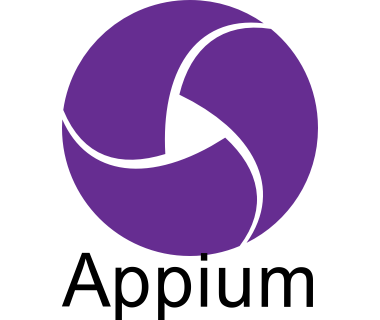
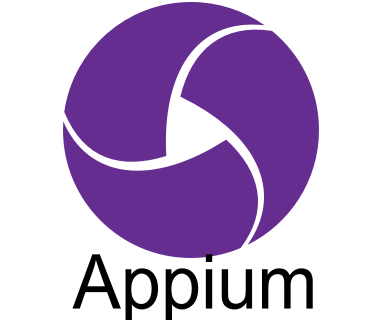
images

diff --git a/README.md b/README.md
@@ -16,7 +16,9 @@
 "Quality is not an act, it is a habit." - Aristotle
 </p>
 
-**Languages:**
+</br>
+
+## Languages:
 
 <a href="https://developer.mozilla.org/es/docs/Web/JavaScript">
 <img src="images/javascript.png" height="70" style="vertical-align:down; margin:4px" alt="javascript">
@@ -26,44 +28,50 @@
 <img src="images/java.png" height="75" style="vertical-align:down; margin:4px" alt="java">
 </a>
 
-**Automatization tools:**
+</br>
 
-<a href="https://cucumber.io/">
-<img src="images/cucumber.svg" height="70" style="vertical-align:down; margin:4px" alt="cucumber" />
-</a>
+## Automatization tools:
 
 <a href="https://www.selenium.dev/">
-<img src="images/selenium.svg" height="70" style="vertical-align:down; margin:4px" alt="selenium" />
+<img src="images/selenium.png" height="70" style="vertical-align:down; margin:4px" alt="selenium" />
 </a>
 
 <a href="https://www.cypress.io/">
-<img src="images/cypress-icon.svg" height="70" style="vertical-align:down; margin:4px" alt="cypress" />
+<img src="images/cypress-icon.png" height="70" style="vertical-align:down; margin:4px" alt="cypress" />
 </a>
 
 <a href="https://appium.io/">
-<img src="images/appium.svg" height="70" style="vertical-align:down; margin:4px" alt="appium" />
+<img src="images/appium.png" height="70" style="vertical-align:down; margin:4px" alt="appium" />
 </a>
 
 <a href="https://playwright.dev/">
-<img src="images/playwright.svg" height="70" style="vertical-align:down; margin:4px" alt="playwright" />
+<img src="images/playwright.png" height="70" style="vertical-align:down; margin:4px" alt="playwright" />
 </a>
 
+<a href="https://cucumber.io/">
+<img src="images/cucumber.png" height="70" style="vertical-align:down; margin:4px" alt="cucumber" />
+</a>
 
-**Other tools:**
+</br>
+
+## Other tools:
 
 <a href="https://git-scm.com/">
-<img src="images/git-icon.svg" height="70" style="vertical-align:down; margin:4px" alt="git" />
+<img src="images/git-icon.png" height="70" style="vertical-align:down; margin:4px" alt="git" />
 </a>
 
 <a href="https://www.atlassian.com/es/software/jira">
-<img src="images/jira.svg" height="70" style="vertical-align:down; margin:4px" alt="jira" />
+<img src="images/jira.png" height="70" style="vertical-align:down; margin:4px" alt="jira" />
 </a>
 
 <a href="https://azure.microsoft.com/es-es/products/devops">
 <img src="images/azure-devops.png" height="70" style="vertical-align:down; margin:4px" alt="microsoft azure" />
 </a>
 
+</br>
 
 <img align="center" src="https://github-readme-stats.vercel.app/api?username=angelleoneltorrelopez&show_icons=true&include_all_commits=true&theme=buefy&hide_border=true" alt="Angel's github stats" />
+
+</br>
 
 <img align="center" src="https://github-readme-stats.vercel.app/api/top-langs/?username=angelleoneltorrelopez&layout=compact&theme=buefy&hide_border=true" />
